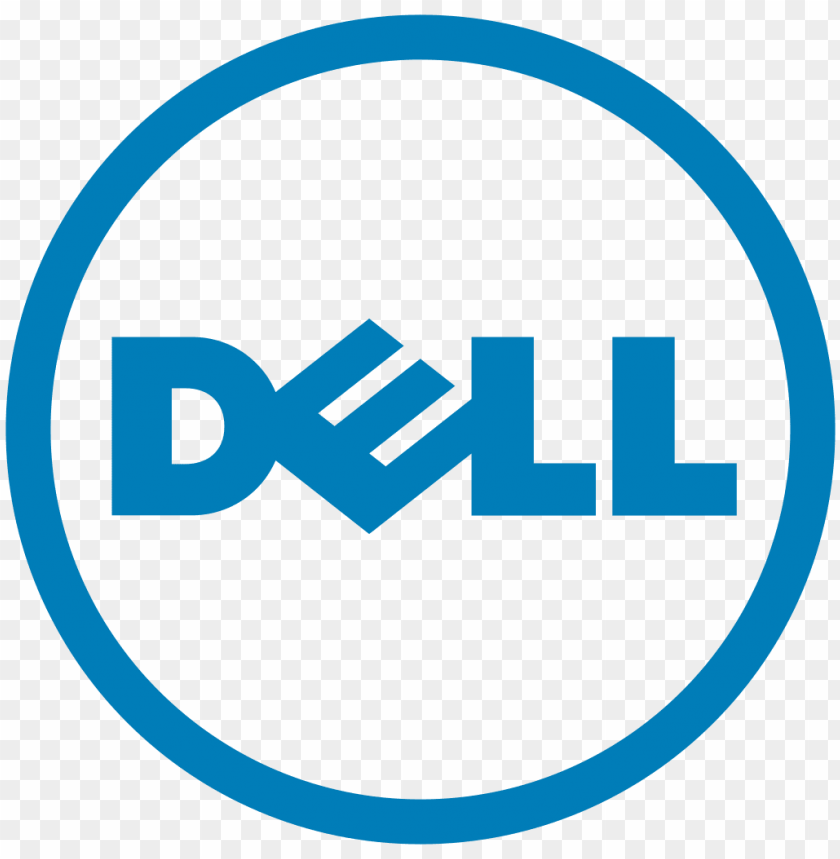
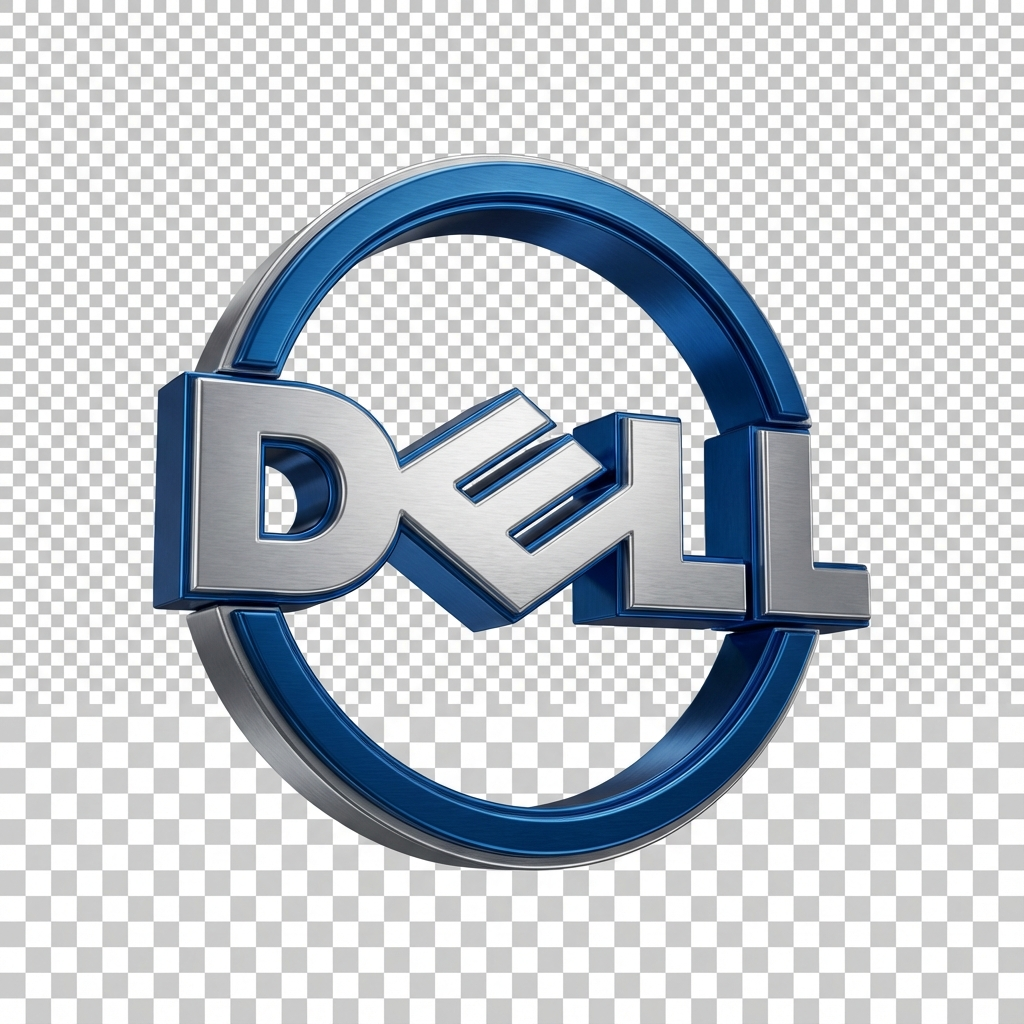
images

diff --git a/afn-web/src/components/Partners.tsx b/afn-web/src/components/Partners.tsx
@@ -1,16 +1,15 @@
 "use client";
 
 import { motion } from 'framer-motion';
-import Image from 'next/image';
 
 const partners = [
-    { name: "DELL", logo: "/partners/dell.png" },
-    { name: "Sophos", logo: "/partners/Sophos.jpg" },
-    { name: "F5", logo: "/partners/f5.webp" },
-    { name: "Redhat", logo: "/partners/redhat.png" },
-    { name: "Microsoft", logo: "/partners/microsoft.jpg" },
-    { name: "VEEAM", logo: "/partners/veeam.png" },
-    { name: "Cisco", logo: "/partners/cisco.png" }
+    { name: "Microsoft", logo: "/images/microsoft.png" },
+    { name: "Cisco", logo: "/images/cisco.png" },
+    { name: "Dell", logo: "/images/dell3.jpg" },
+    { name: "Sophos", logo: "/images/Sophos.webp" },
+    { name: "VEEAM", logo: "/images/veeam.png" },
+    { name: "Redhat", logo: "/images/redhat1.png" },
+    { name: "F5", logo: "/images/F51.png" }
 ];
 
 // Double the partners to create a seamless loop
@@ -18,25 +17,25 @@ const duplicatedPartners = [...partners, ...partners];
 
 export default function Partners() {
     return (
-        <section id="partners" className="py-24 bg-white dark:bg-black border-y border-slate-100 dark:border-white/5 overflow-hidden">
+        <section id="partners" className="py-24 bg-black border-y border-white/5 overflow-hidden">
             <div className="max-w-7xl mx-auto px-4 sm:px-6 lg:px-8 mb-16">
                 <div className="text-center">
                     <motion.span
                         initial={{ opacity: 0 }}
                         whileInView={{ opacity: 1 }}
-                        className="text-secondary font-bold tracking-[0.4em] uppercase text-[10px] mb-4 block"
+                        className="text-white/60 font-bold tracking-[0.4em] uppercase text-[10px] mb-4 block"
                     >
-                        Powering the Industry
+                        Our Strategic Ecosystem
                     </motion.span>
-                    <h2 className="text-3xl md:text-5xl font-black text-slate-900 dark:text-white leading-tight">
-                        Our Strategic Ecosystem.
+                    <h2 className="text-3xl md:text-5xl font-black text-white leading-tight">
+                        Trusted Technology Partners.
                     </h2>
                 </div>
             </div>
 
-            <div className="relative flex overflow-x-hidden group">
+            <div className="relative flex overflow-x-hidden group py-10">
                 <motion.div
-                    className="flex py-12 whitespace-nowrap"
+                    className="flex whitespace-nowrap"
                     animate={{
                         x: ['0%', '-50%'],
                     }}
@@ -52,14 +51,13 @@ export default function Partners() {
                     {duplicatedPartners.map((partner, index) => (
                         <div
                             key={index}
-                            className="flex items-center justify-center px-12 md:px-20 grayscale opacity-50 hover:grayscale-0 hover:opacity-100 transition-all duration-500 cursor-pointer"
+                            className="flex items-center justify-center px-12 md:px-20 transition-all duration-500 cursor-pointer opacity-70 hover:opacity-100"
                         >
-                            <div className="relative h-10 md:h-14 w-28 md:w-40 transition-transform duration-500 hover:scale-110">
-                                <Image
+                            <div className="relative h-16 md:h-20 w-32 md:w-48 transition-transform duration-500 hover:scale-110 flex items-center justify-center">
+                                <img
                                     src={partner.logo}
                                     alt={partner.name}
-                                    fill
-                                    className="object-contain clean-logo"
+                                    className="max-h-full max-w-full object-contain"
                                 />
                             </div>
                         </div>
@@ -67,8 +65,8 @@ export default function Partners() {
                 </motion.div>
 
                 {/* Shadow Overlays for smooth edges */}
-                <div className="absolute inset-y-0 left-0 w-40 bg-gradient-to-r from-white dark:from-black to-transparent z-10 pointer-events-none" />
-                <div className="absolute inset-y-0 right-0 w-40 bg-gradient-to-l from-white dark:from-black to-transparent z-10 pointer-events-none" />
+                <div className="absolute inset-y-0 left-0 w-40 bg-gradient-to-r from-black to-transparent z-10 pointer-events-none" />
+                <div className="absolute inset-y-0 right-0 w-40 bg-gradient-to-l from-black to-transparent z-10 pointer-events-none" />
             </div>
 
             <div className="max-w-4xl mx-auto px-4 mt-20">
@@ -76,18 +74,18 @@ export default function Partners() {
                     <motion.div
                         initial={{ opacity: 0, x: -20 }}
                         whileInView={{ opacity: 1, x: 0 }}
-                        className="p-8 rounded-[32px] bg-slate-50 dark:bg-white/5 border border-slate-100 dark:border-white/5"
+                        className="p-8 rounded-[32px] bg-white/5 border border-white/5"
                     >
-                        <p className="text-sm font-bold text-slate-400 uppercase tracking-widest mb-2">Technical Excellence</p>
-                        <p className="text-slate-600 dark:text-slate-300 font-medium">We partner with Tier-1 vendors to ensure that every network we build and every system we monitor meets international reliability standards.</p>
+                        <p className="text-sm font-bold text-white/40 uppercase tracking-widest mb-2">Technical Excellence</p>
+                        <p className="text-slate-300 font-medium">We partner with Tier-1 vendors to ensure that every network we build meets international reliability standards.</p>
                     </motion.div>
                     <motion.div
                         initial={{ opacity: 0, x: 20 }}
                         whileInView={{ opacity: 1, x: 0 }}
-                        className="p-8 rounded-[32px] bg-slate-50 dark:bg-white/5 border border-slate-100 dark:border-white/5"
+                        className="p-8 rounded-[32px] bg-white/5 border border-white/5"
                     >
-                        <p className="text-sm font-bold text-slate-400 uppercase tracking-widest mb-2">Certified Expertise</p>
-                        <p className="text-slate-600 dark:text-slate-300 font-medium">Our local Libyan team is certified in all partner technologies, bringing global knowledge to local business challenges.</p>
+                        <p className="text-sm font-bold text-white/40 uppercase tracking-widest mb-2">Certified Expertise</p>
+                        <p className="text-slate-300 font-medium">Our local Libyan team is certified in all partner technologies, bringing global knowledge to local business challenges.</p>
                     </motion.div>
                 </div>
             </div>

diff --git a/afn-web/src/components/About.tsx b/afn-web/src/components/About.tsx
@@ -1,0 +1,77 @@
+"use client";
+
+import { motion } from 'framer-motion';
+import { Target, Users, Zap, ShieldCheck } from 'lucide-react';
+
+const stats = [
+    { label: 'Certified Team', value: '100%' },
+    { label: 'Global Partners', value: '7+' },
+    { label: 'SLA Compliance', value: '100%' },
+    { label: 'Support Coverage', value: '24/7' },
+];
+
+export default function About() {
+    return (
+        <section id="about" className="py-32 bg-white dark:bg-black overflow-hidden">
+            <div className="max-w-7xl mx-auto px-4 sm:px-6 lg:px-8">
+                <div className="grid grid-cols-1 lg:grid-cols-2 gap-20 items-center">
+                    <motion.div
+                        initial={{ opacity: 0, x: -50 }}
+                        whileInView={{ opacity: 1, x: 0 }}
+                        viewport={{ once: true }}
+                        transition={{ duration: 0.8 }}
+                    >
+                        <motion.span
+                            className="text-secondary font-bold tracking-[0.4em] uppercase text-[10px] mb-4 block"
+                        >
+                            Our Vision
+                        </motion.span>
+                        <h2 className="text-4xl md:text-6xl font-black text-slate-900 dark:text-white mb-8 leading-tight">
+                            Empowering Libya's <br />
+                            Digital Transformation.
+                        </h2>
+                        <p className="text-xl text-slate-500 dark:text-slate-400 mb-10 leading-relaxed font-medium">
+                            At AFN, we don't just build networks; we create the digital infrastructure that powers the future. By combining global standards with local expertise, we help businesses navigate the complexities of modern technology.
+                        </p>
+
+                        <div className="grid grid-cols-1 md:grid-cols-2 gap-8">
+                            {[
+                                { icon: Target, title: "Client Centered", desc: "Tailored to your unique business goals and financial limits." },
+                                { icon: ShieldCheck, title: "Global Standards", desc: "Ensuring solutions are future-proof and compliant." }
+                            ].map((item, i) => (
+                                <div key={i} className="flex flex-col gap-4">
+                                    <div className="w-12 h-12 rounded-2xl bg-primary/5 dark:bg-primary/10 flex items-center justify-center text-primary group-hover:scale-110 transition-transform">
+                                        <item.icon size={24} />
+                                    </div>
+                                    <div>
+                                        <h4 className="font-bold text-slate-900 dark:text-white mb-1">{item.title}</h4>
+                                        <p className="text-sm text-slate-500 dark:text-slate-400 leading-relaxed">{item.desc}</p>
+                                    </div>
+                                </div>
+                            ))}
+                        </div>
+                    </motion.div>
+
+                    <motion.div
+                        initial={{ opacity: 0, scale: 0.95 }}
+                        whileInView={{ opacity: 1, scale: 1 }}
+                        viewport={{ once: true }}
+                        className="relative"
+                    >
+                        <div className="grid grid-cols-2 gap-4">
+                            {stats.map((stat, i) => (
+                                <div key={i} className="glass-morphism p-10 rounded-[40px] text-center group hover:border-secondary transition-all">
+                                    <p className="text-4xl md:text-5xl font-black text-primary dark:text-secondary mb-2 tracking-tighter group-hover:scale-110 transition-transform duration-500">{stat.value}</p>
+                                    <p className="text-xs font-bold uppercase tracking-widest text-slate-400">{stat.label}</p>
+                                </div>
+                            ))}
+                        </div>
+
+                        {/* Decorative Background Element */}
+                        <div className="absolute -z-10 top-1/2 left-1/2 -translate-x-1/2 -translate-y-1/2 w-[120%] h-[120%] bg-primary/5 rounded-full blur-[100px]" />
+                    </motion.div>
+                </div>
+            </div>
+        </section>
+    );
+}

diff --git a/afn-web/src/app/page.tsx b/afn-web/src/app/page.tsx
@@ -1,5 +1,6 @@
 import Navbar from '@/components/Navbar';
 import Hero from '@/components/Hero';
+import About from '@/components/About';
 import Services from '@/components/Services';
 import Partners from '@/components/Partners';
 import Contact from '@/components/Contact';
@@ -10,6 +11,7 @@ export default function Home() {
     <main className="min-h-screen">
       <Navbar />
       <Hero />
+      <About />
       <Services />
       <Partners />
       <Contact />
